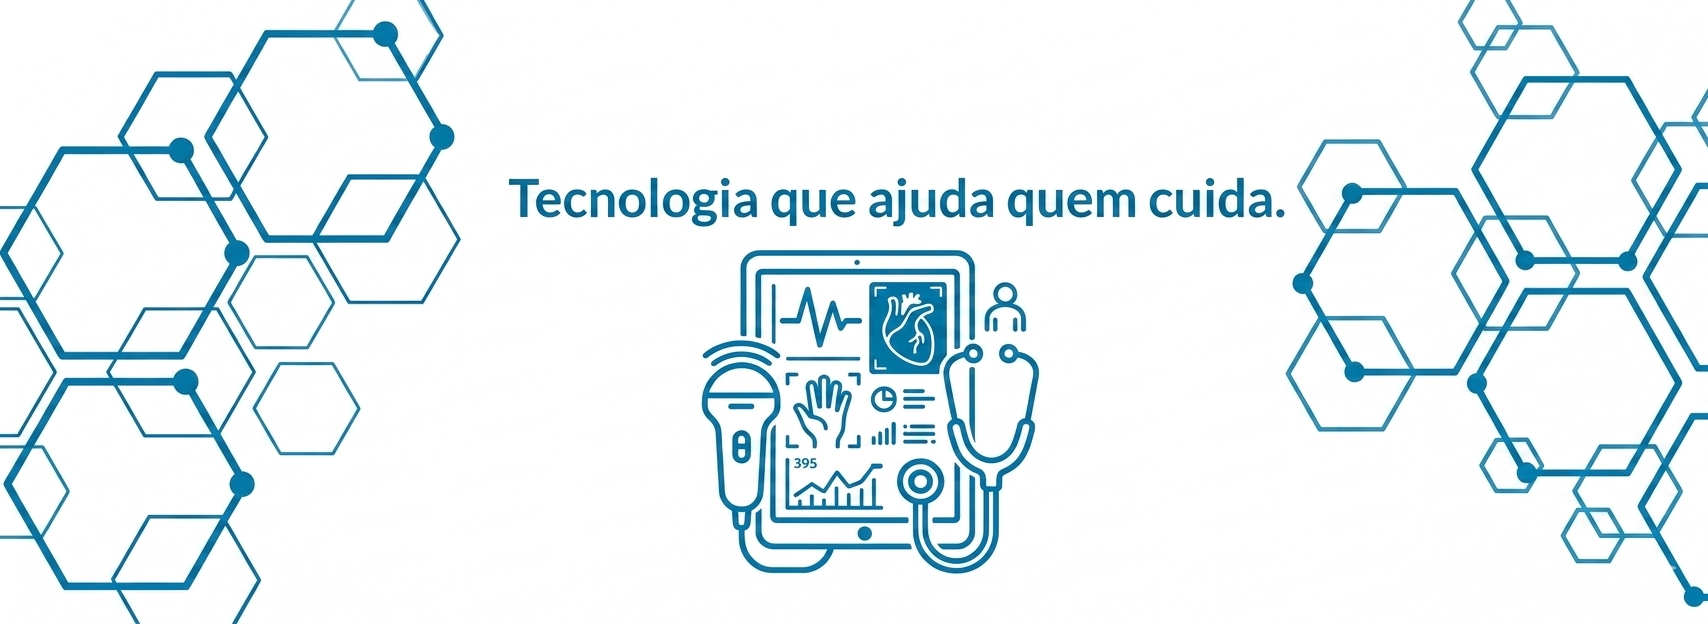
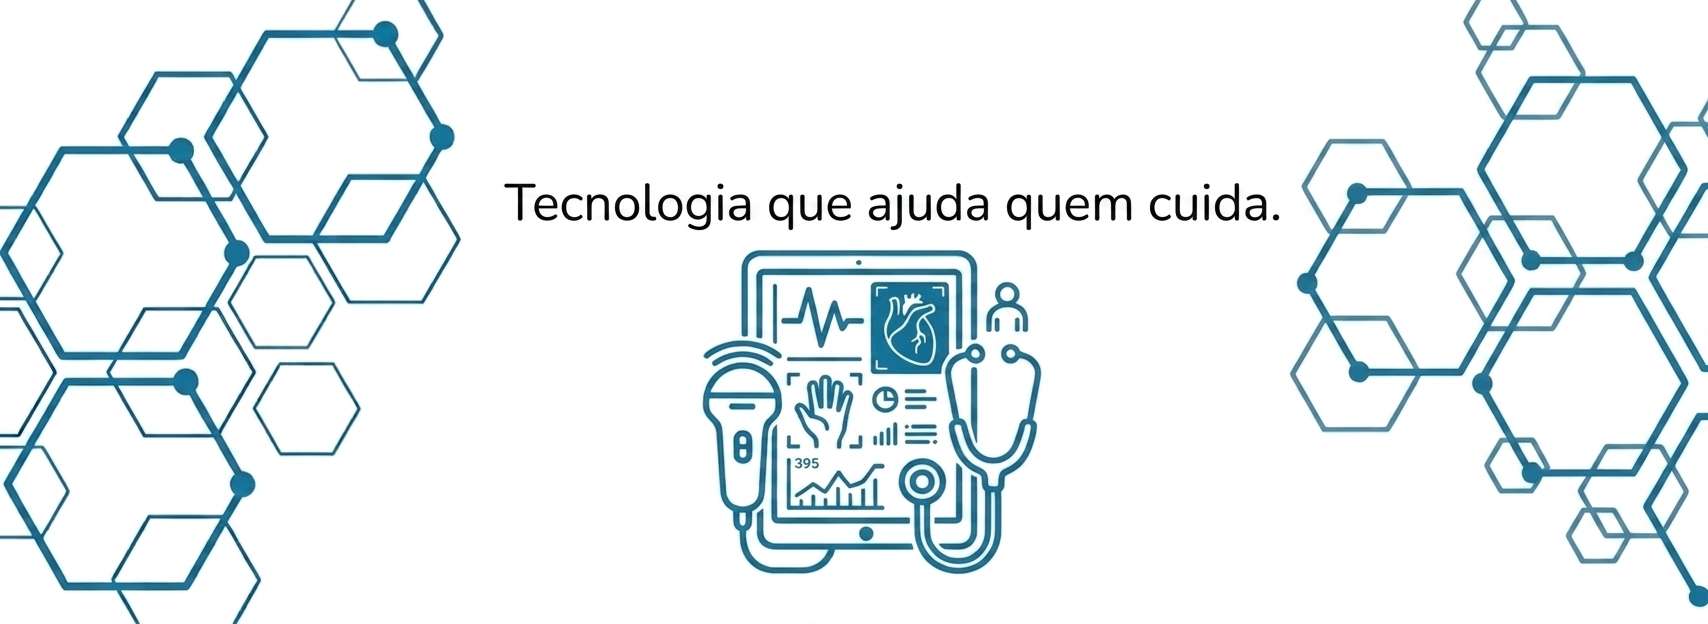
Começo do desenvolvimento da página da área privada (sidebar e respetivos links)

diff --git a/Private/Index.html b/Private/Index.html
@@ -1,0 +1,87 @@
+<!DOCTYPE html>
+<html lang="pt">
+<head>
+    <!-- Google Fonts -->
+    <link rel="preconnect" href="https://fonts.googleapis.com">
+    <link rel="preconnect" href="https://fonts.gstatic.com" crossorigin>
+    <link href="https://fonts.googleapis.com/css2?family=Montserrat:ital,wght@0,100..900;1,100..900&family=Nunito+Sans:ital,opsz,wght@0,6..12,200..1000;1,6..12,200..1000&family=Titillium+Web:ital,wght@0,200;0,300;0,400;0,600;0,700;0,900;1,200;1,300;1,400;1,600;1,700&display=swap" rel="stylesheet">
+ 
+    <!-- Font Awesome (Via CDN) -->
+    <link rel="stylesheet" href="https://cdnjs.cloudflare.com/ajax/libs/font-awesome/6.5.2/css/all.min.css">
+
+    <link rel="stylesheet" href="../assets/bootstrap/1241035.css"> 
+    <!-- Estilos da página-->
+    
+    
+    <meta charset="UTF-8">
+    <meta name="viewport" content="width=device-width, initial-scale=1.0">
+
+    <title>InveMed</title>
+    <!--    favicon (icon do site)  -->
+    <link rel="shortcut icon" href="../assets/img/logo.png" type="image/png">
+    
+    <link rel="stylesheet" href="../assets/css/1241035.css">
+</head>
+
+<body>
+
+    <header class="container-fluid text-dark" style="background-color: #f5f7fa;">
+        <div class="row align-items-center">
+            <div class="col-6 d-flex aligh-items-center p-3">
+            <!--Logo e Nome -->
+            <a href="index.html">
+                <img alt="Logo do InveMed" height="50" src="../assets/img/logo.png"   class="me-3"> <!--alt é para descrever a imagem-->
+            </a>
+            <h1 class="mb-0">InveMed</h1>
+            </div>
+            <div class="col-6 text-end p-3">
+                <div class="dropdown">
+                    <button class="btn dropdown-toggle" type="button" data-bs-toggle="dropdown" aria-expanded="false" style="color: #0077a8; border: 1px solid #0077a8; border-radius: 6px;">
+                        <i class="fa-regular fa-user me-2"></i> Utilizador
+                    </button>
+                    <ul class="dropdown-menu dropdown-menu-end">
+                        <li><a class="dropdown-item" href="#"><i class="fa-solid fa-key me-2" style="color: #0077a8;"></i>Alterar password</a></li> <li><hr class="dropdown-divider"></li>
+                        <li><a class="dropdown-item" href="login/login.html"><i class="fa-solid fa-right-from-bracket me-2" style="color: #0077a8;"></i>Sair</a></li> </ul>
+                </div>
+            </div>
+        </div>
+        <button class="btn d-lg-none" style="color:#0077a8"
+            type="button"
+            data-bs-toggle="offcanvas"
+            data-bs-target="#menuMobile">
+            <i class="fa-solid fa-bars"></i>
+        </button>
+    </header>
+    <div class="container-fluid">
+        <div class="row">
+            <aside class="col-md-3 col-lg-2 text-white p-3 min-vh-100 d-none d-lg-block" style="background-color: #0077a8">
+                <h4>Menu</h4>    
+                <nav class="d-flex flex-column">
+                    <a href="#gestãoconteudos" class="text-white text-decoration-none link-light link-opacity-50-hover" style="transition: background-color 0.3s ease;">Gestão de conteúdos</a>
+                    <a href="fornecedores/fornecedores.html" class="text-white text-decoration-none link-light link-opacity-50-hover" style="transition: background-color 0.3s ease;">Gestão de Fornecedores</a>
+                    <a href="documentacao/documentacao.html" class="text-white text-decoration-none link-light link-opacity-50-hover" style="transition: background-color 0.3s ease;">Gestão de Documentação</a>
+                    <a href="equipamentos/equipamentos.html" class="text-white text-decoration-none link-light link-opacity-50-hover" style="transition: background-color 0.3s ease;">Gestão de Equipamentos</a>
+                    <a href="localizacao/localizacao.html" class="text-white text-decoration-none link-light link-opacity-50-hover" style="transition: background-color 0.3s ease;">Localização dos Equipamentos</a>                    
+                    <a href="garantiacontrato/garantiacontrato.html" class="text-white text-decoration-none link-light link-opacity-50-hover" style="transition: background-color 0.3s ease;">Garantias e Contratos</a>
+                </nav>
+            </aside>
+        </div>
+    </div>        
+    <div class="offcanvas offcanvas-start text-white" style="background-color:#0077a8;" id="menuMobile">
+        <div class="offcanvas-header">
+            <h5 class="offcanvas-title">Menu</h5>
+            <button type="button" class="btn-close btn-close-black" data-bs-dismiss="offcanvas" style="background-color: #0077a8;"></button>
+        </div>
+
+        <div class="offcanvas-body d-flex flex-column">
+            <a href="#gestãoconteudos" class="text-white text-decoration-none link-light link-opacity-50-hover" style="transition: background-color 0.3s ease;">Gestão de conteúdos</a>
+            <a href="fornecedores/fornecedores.html" class="text-white text-decoration-none link-light link-opacity-50-hover" style="transition: background-color 0.3s ease;">Gestão de Fornecedores</a>
+            <a href="documentacao/documentacao.html" class="text-white text-decoration-none link-light link-opacity-50-hover" style="transition: background-color 0.3s ease;">Gestão de Documentação</a>
+            <a href="equipamentos/equipamentos.html" class="text-white text-decoration-none link-light link-opacity-50-hover" style="transition: background-color 0.3s ease;">Gestão de Equipamentos</a>
+            <a href="localizacao/localizacao.html" class="text-white text-decoration-none link-light link-opacity-50-hover" style="transition: background-color 0.3s ease;">Localização dos Equipamentos</a>
+            <a href="garantiacontrato/garantiacontrato.html" class="text-white text-decoration-none link-light link-opacity-50-hover" style="transition: background-color 0.3s ease;">Garantias e Contratos</a>
+        </div>
+    </div>
+                 
+    <script src="../assets/bootstrap/1241035.js"></script>
+</body>

diff --git a/Private/login/login.html b/Private/login/login.html
@@ -4,27 +4,32 @@
     <!-- Google Fonts -->
     <link rel="preconnect" href="https://fonts.googleapis.com">
     <link rel="preconnect" href="https://fonts.gstatic.com" crossorigin>
-    <link href="https://fonts.googleapis.com/css2?family=Titillium+Web:ital,wght@0,300;0,700;1,400&display=swap" rel="stylesheet"> 
- 
+    <!--Fonte do site-->
+    <link href="https://fonts.googleapis.com/css2?family=Montserrat:ital,wght@0,100..900;1,100..900&family=Nunito+Sans:ital,opsz,wght@0,6..12,200..1000;1,6..12,200..1000&family=Titillium+Web:ital,wght@0,200;0,300;0,400;0,600;0,700;0,900;1,200;1,300;1,400;1,600;1,700&display=swap" rel="stylesheet">
+
     <!-- Font Awesome (Via CDN) -->
     <link rel="stylesheet" href="https://cdnjs.cloudflare.com/ajax/libs/font-awesome/6.5.2/css/all.min.css">
 
-    <link rel="stylesheet" href="../../assets/bootstrap/1241035.css" rel="stylesheet"> 
+    <link rel="stylesheet" href="../../assets/bootstrap/1241035.css"> 
     <!-- Estilos da página-->
-    <link rel="stylesheet" href="../../assets/css/1241035.css">
+    
     <meta charset="UTF-8">
     <meta name="viewport" content="width=device-width, initial-scale=1.0">
 
     <title>InveMed</title>
     <!--    favicon (icon do site)  -->
     <link rel="shortcut icon" href="../../assets/img/logo.png" type="image/png">
+    
+    <link rel="stylesheet" href="../../assets/css/1241035.css">
 </head>
 
 <body >
-    <div class="container-fluid p-0 position-relative" style="min-height: 100vh; display: flex; justify-content: center; align-items: center; background-color: #92d1eb;">
+    <div class="container-fluid p-0 position-relative" style="min-height: 100vh; display: flex; justify-content: center; align-items: center; background: linear-gradient(to bottom, #0077a8, #ffffff);">
                 <div style="width: 100%; max-width: 350px;">
                             <form action="../../Public/index.html" method="post">
-                                <div class="card p-4 shadow">
+                                
+                                <div class="card p-4 shadow-lg" style="border-radius: 15px;">
+                                    <h4>Aceder à Área reservada</h4>
                                     <div class="mb-3">
                                     <!-- Utilizador -->
                                         <label for="email" class="form-label">Utilizador</label>
@@ -41,6 +46,11 @@
                                             Entrar <i class="fa-solid fa-right-to-bracket ms-2"></i>
                                         </button>
                                     </div>
+                                    <p class="text-center mt-3">
+                                        <a href="../../Public/index.html" class="text-black text-decoration-none">
+                                            Clique aqui para voltar à página inicial.
+                                        </a>
+                                    </p>
                                     <!-- Erros -->
                                     <div id="mensagemErro" class="alert alert-danger p-2 text-center d-none">
                                         Erro: Utilizador não registado.

diff --git a/Public/index.html b/Public/index.html
@@ -4,20 +4,22 @@
     <!-- Google Fonts -->
     <link rel="preconnect" href="https://fonts.googleapis.com">
     <link rel="preconnect" href="https://fonts.gstatic.com" crossorigin>
-    <link href="https://fonts.googleapis.com/css2?family=Titillium+Web:ital,wght@0,300;0,700;1,400&display=swap" rel="stylesheet"> 
+    <link href="https://fonts.googleapis.com/css2?family=Montserrat:ital,wght@0,100..900;1,100..900&family=Nunito+Sans:ital,opsz,wght@0,6..12,200..1000;1,6..12,200..1000&family=Titillium+Web:ital,wght@0,200;0,300;0,400;0,600;0,700;0,900;1,200;1,300;1,400;1,600;1,700&display=swap" rel="stylesheet">
  
     <!-- Font Awesome (Via CDN) -->
     <link rel="stylesheet" href="https://cdnjs.cloudflare.com/ajax/libs/font-awesome/6.5.2/css/all.min.css">
 
-    <link rel="stylesheet" href="../assets/bootstrap/1241035.css" rel="stylesheet"> 
+    <link rel="stylesheet" href="../assets/bootstrap/1241035.css"> 
     <!-- Estilos da página-->
-    <link rel="stylesheet" href="../assets/css/1241035.css">
+    
+    
     <meta charset="UTF-8">
     <meta name="viewport" content="width=device-width, initial-scale=1.0">
 
     <title>InveMed</title>
     <!--    favicon (icon do site)  -->
     <link rel="shortcut icon" href="../assets/img/logo.png" type="image/png">
+    
     <link rel="stylesheet" href="../assets/css/1241035.css">
 </head>
 

diff --git a/assets/css/1241035.css b/assets/css/1241035.css
@@ -2,8 +2,15 @@
     margin: 0;
     padding: 0;
     box-sizing: border-box;
-    font-family: sans-serif;
+    font-family: "Nunito Sans", "Montserrat", sans-serif;
+    font-optical-sizing: auto;
+    font-weight: 500;
+    font-style: normal;
+    font-variation-settings:
+        "wdth" 100,
+        "YTLC" 500;
 }
+
 
 body{
     margin: 0;
@@ -357,15 +364,37 @@ cursor: pointer; /* Cursor tipo "mão" ao passar por cima */
 }
 
 .btn-login{
-    background-color: #92d1eb;
-    color: black;
+    background-color: #0077a8;
+    color: white;
     border: none;
 }
 
 .btn-login:hover {
+    transform: translateY(-2px);
+    background-color: #0077a8;
+    box-shadow: 0 6px 18px rgba(0, 0, 0, 0.25);
+}
 
-    background-color: #92d1eb;
+.btn-login:active {
+    transform: translateY(0);
+    box-shadow: 0 3px 10px rgba(0, 0, 0, 0.20);
+}
 
+.sidebar{
+    width: 250px; /* Largura da barra lateral */
+    height: 100vh; /* Altura total da janela */
+    color: white; /* Texto branco */
+    padding: 100px 20px 20px; /* Espaçamento interno */
+    position: fixed; /* Fixa à esquerda do ecrã */
+    left: 0;
+    top: 0;
+    bottom: 0;
 }
 
 
+
+.dropdown-item:focus,
+.dropdown-item:active {
+    background-color: transparent !important;
+    color: inherit !important;
+}
